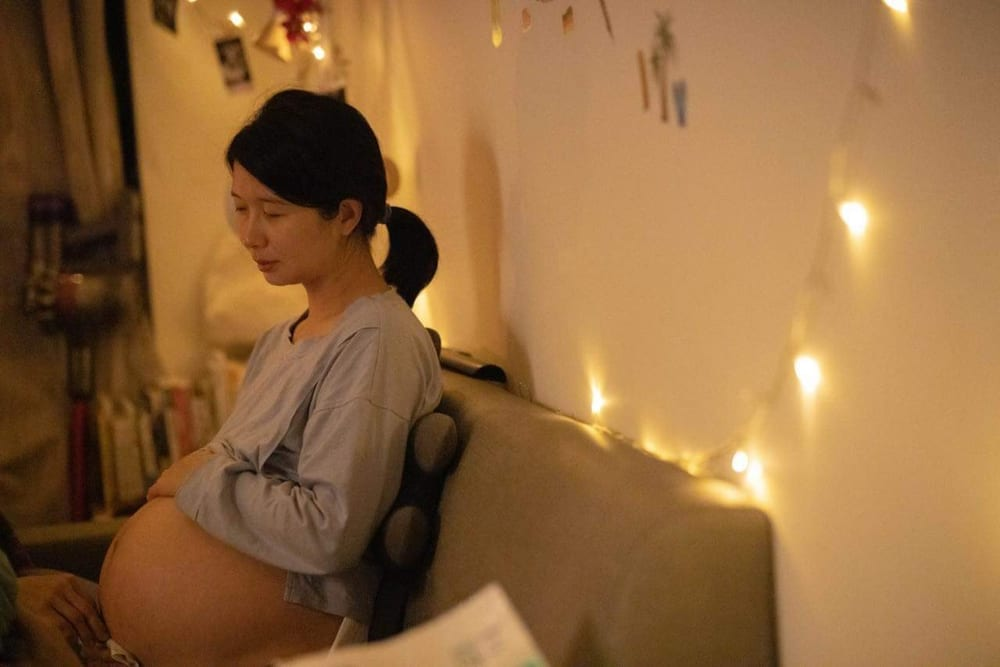
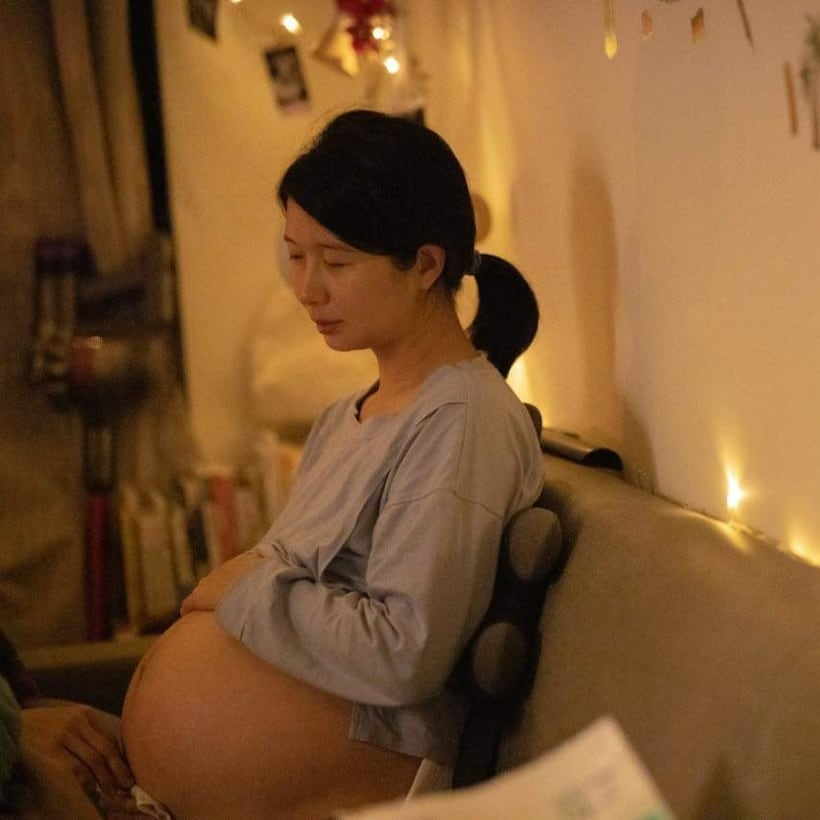
Hero 換聚焦孕肚版（1.png）；開場照片改以孕婦置中

diff --git a/index.html b/index.html
@@ -296,7 +296,7 @@ footer{text-align:center;padding:30px 22px 46px;font-size:.84rem;color:var(--coc
       <p class="by">製作　<strong>欣妙在陪妳　Birth with Milliya</strong></p>
     </div>
     <div class="hero-photo">
-      <img src="images/hero.jpg" alt="孕育中的母親・靜謐側影" loading="eager">
+      <img src="images/hero.jpg" alt="孕育中的母親・雙手輕捧孕肚" loading="eager">
     </div>
   </div>
 </header>